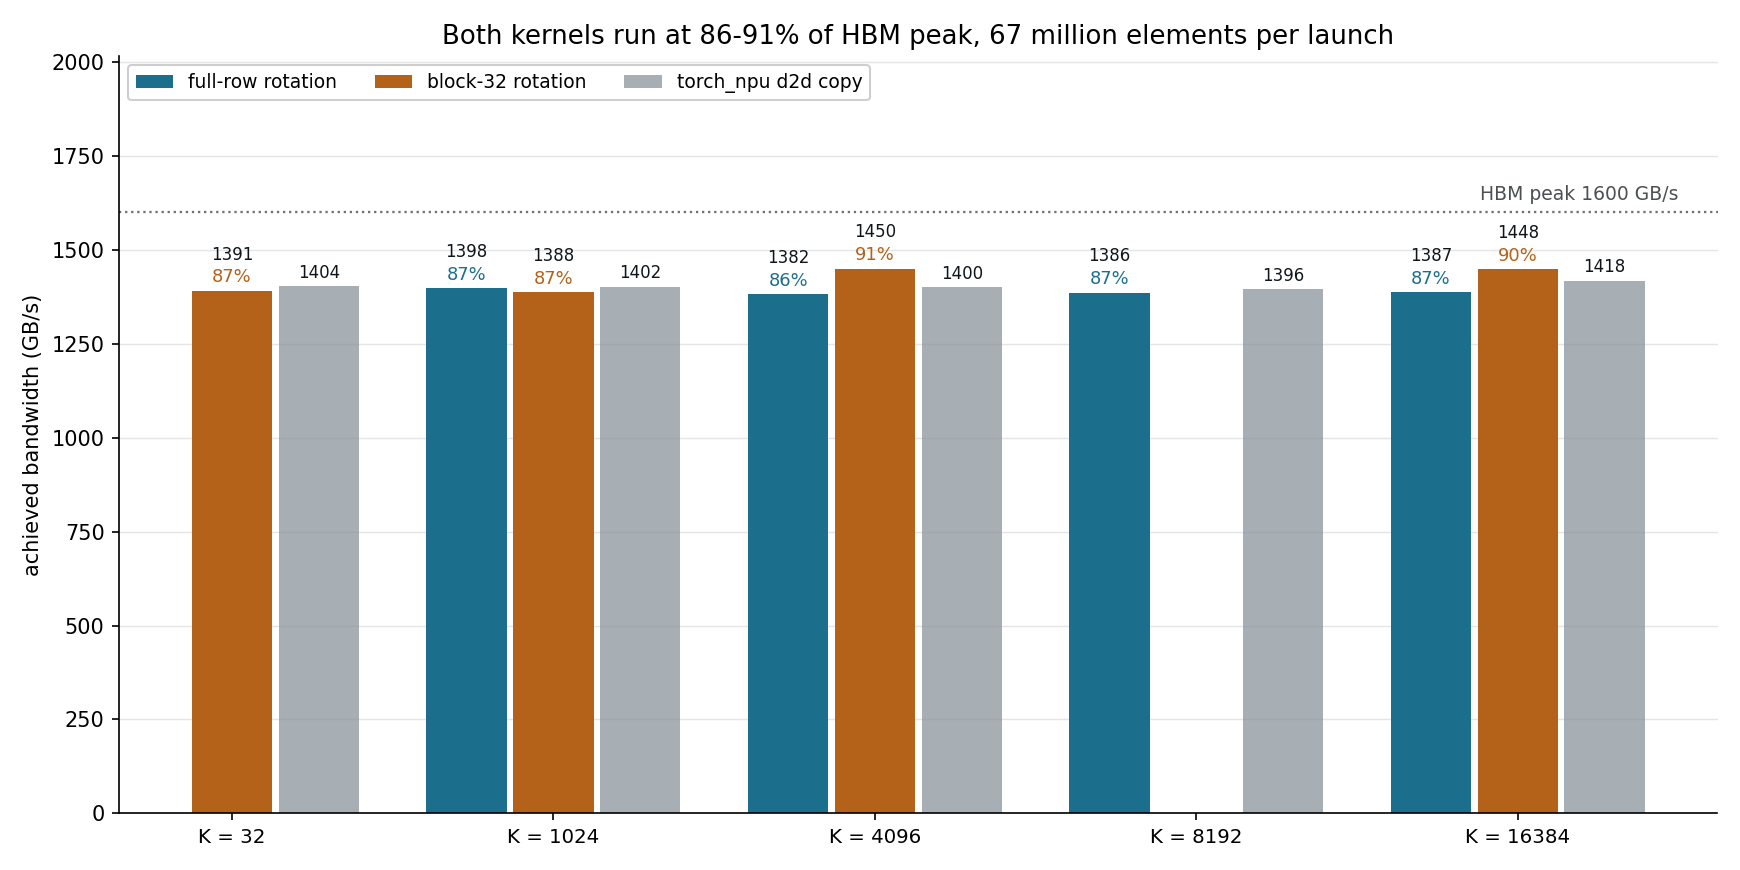
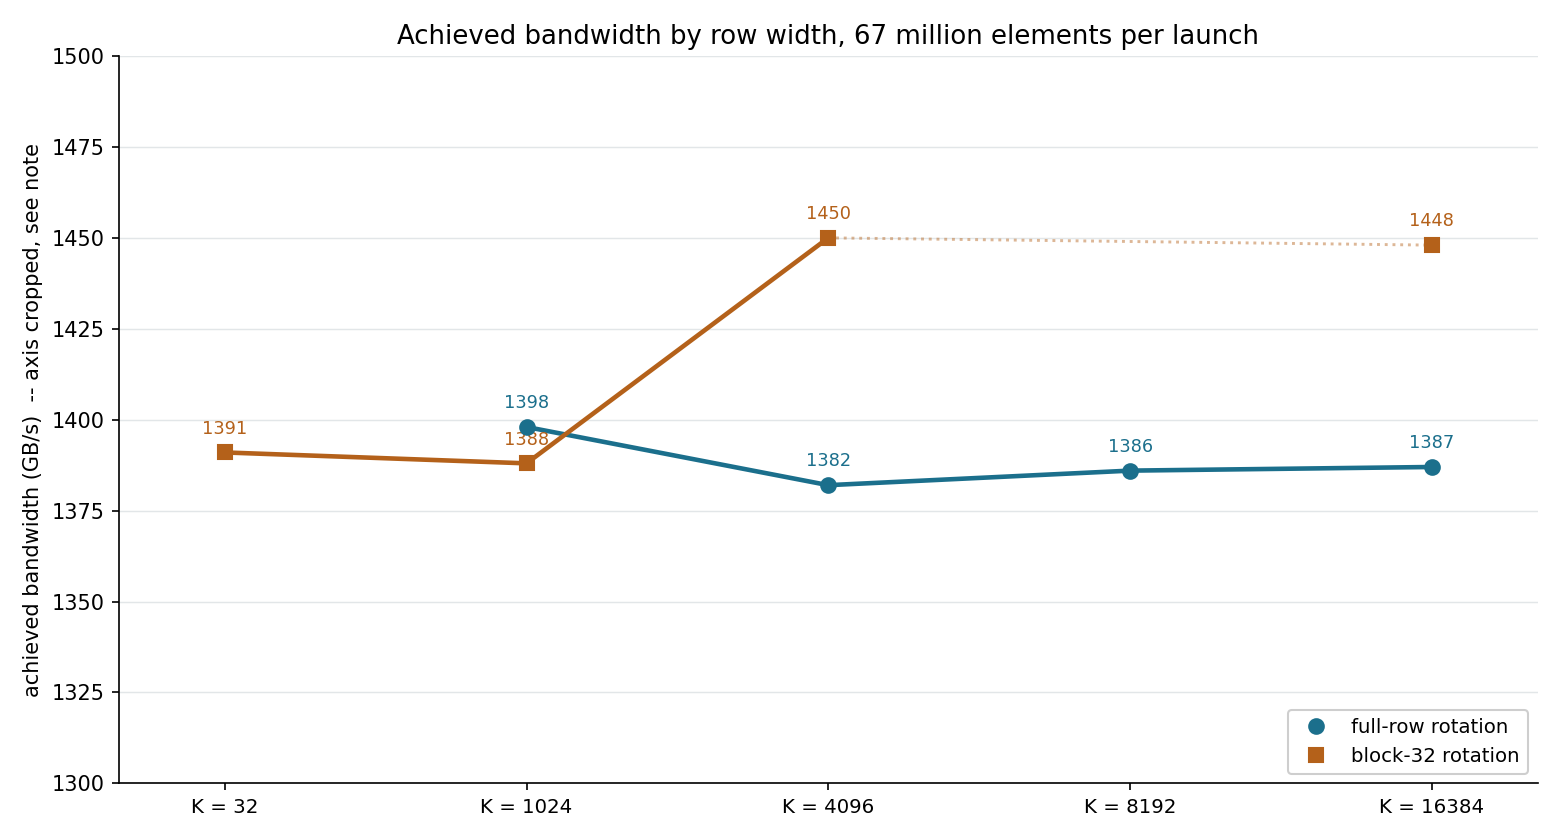
fused_hadamard_quant_a5: bandwidth as a line, kernels only
Three changes to the second figure: a line chart rather than bars, no
copy reference, and no HBM peak line. The copy belongs to the traffic
argument the other figure makes, and the part's true peak is not
something these runs establish, so drawing 1600 as a ceiling claimed
more than the data supports.

Removing the ceiling takes away the only reference, and every point
sits between 1382 and 1450 GB/s, so the y axis has to be cropped or the
chart is two flat lines. It runs 1300-1500: round and deliberately
loose, because block-32's step at K=4096 is 4.5% and a tight crop draws
that as a cliff. The axis label says it is cropped.

Markers are measurements. block-32 has no K=8192 point, so that span is
drawn faint and dotted rather than as a straight line through a width
where nothing was measured.

Unresolved, and the reason 8192 is still missing: a clean re-measurement
of block-32 today (worst spread 5.2%, copy reference 1393-1408 against
the stored 1392-1404) did not reproduce the stored numbers. K=32 and
K=1024 came back 5.0% high, K=16384 4.0% low, and the shape inverted --
stored rises at K>=4096, today's falls at 16384. So the step this figure
shows may be session drift rather than a width effect. A two-repeat
sweep of both kernels is queued to settle it; until it lands the figure
plots the stored session, which is the one the READMEs quote.

Claude-Session: https://claude.ai/code/session_01HZVm8471pTYSqnDhjM7k1g

diff --git a/fused_hadamard_quant_a5/plot_bandwidth_both_a5.py b/fused_hadamard_quant_a5/plot_bandwidth_both_a5.py
@@ -1,15 +1,20 @@
 #!/usr/bin/env python3
-"""Achieved bandwidth for both fused kernels, against the copy and HBM peak.
+"""Achieved bandwidth for both fused kernels, across row width.
 
-The companion to the fusion ladder. The ladder says fusing is worth 2.45-2.54x;
-this says why there is nothing much left after that. Every arm sits at 86-91%
-of the part's 1.6 TB/s HBM peak, so the kernels are not moving bytes faster
-than a vendor copy of the same data -- they are moving fewer of them, 2.53
-B/element against 4.00, and that is the whole of the time difference.
+The companion to the fusion ladder. The ladder says what fusing is worth; this
+says what the fused kernel then sustains, and that it does not fall off as the
+row grows: the transform is hidden under the DMA at every width, so the curve
+is flat rather than sloping.
 
-The copy is a reference for what moving the bytes costs, not a proven lower
-bound: it is a vendor kernel doing a simpler job. HBM peak is the closer thing
-to a real ceiling, which is why it is the line.
+NOTE ON THE Y AXIS. It runs 1300-1500 and does not start at zero. Every point
+sits between 1382 and 1450 GB/s, so a zero-based axis would draw two flat lines
+and show nothing. The limits are round and deliberately loose: block-32's step
+at K=4096 is 4.5%, and a tight crop draws that as a cliff. Read the gap as the
+few per cent it is, not as the height of the picture.
+
+No copy reference and no hardware ceiling here on purpose. The copy belongs to
+the traffic argument, which is the other figure's job, and the part's true peak
+bandwidth is not something these runs establish.
 """
 
 import argparse
@@ -29,10 +34,8 @@ HERE = Path(__file__).resolve().parent
 B32 = HERE.parent / "fused_hadamard_quant_b32_a5"
 FULL = "#1b6f8c"
 BLOCK = "#b4611a"
-COPY = "#8a949b"
 INK = "#0f1519"
 GRID = "#d7dcdf"
-HBM_PEAK = 1600.0  # GB/s on an Ascend950PR_9589
 
 
 def read(p):
@@ -51,57 +54,43 @@ def main():
     full = read(HERE / "copy_floor_full.csv")
     b32 = read(B32 / "copy_floor_b32.csv")
     widths = sorted(set(full) | set(b32))
-    xs = list(range(len(widths)))
+    pos = {k: i for i, k in enumerate(widths)}
 
-    fig, ax = plt.subplots(figsize=(11.6, 5.8))
-    w = 0.25
-    # three fixed slots per width: full-row, block-32, copy. The copy ran at
-    # every width, so the group is always anchored and the tick stays centred;
-    # a width one kernel has no instantiation for simply leaves its slot empty.
-    SLOT = {"full": -0.27, "b32": 0.0, "copy": 0.27}
-    lanes = [("full", full, FULL, "full-row rotation"),
-             ("b32", b32, BLOCK, "block-32 rotation")]
-    seen = set()
+    fig, ax = plt.subplots(figsize=(10.4, 5.6))
+    for src, colour, marker, name in [
+        (full, FULL, "o", "full-row rotation"),
+        (b32, BLOCK, "s", "block-32 rotation"),
+    ]:
+        ks = sorted(src)
+        xs = [pos[k] for k in ks]
+        ys = [float(src[k]["fused_gbs"]) for k in ks]
+        # A marker is a measurement. Where a kernel has no instantiation at a
+        # width the others cover, the span is drawn faint and dashed so the
+        # line cannot be read as a measured value there.
+        for i in range(len(xs) - 1):
+            gap = xs[i + 1] - xs[i] > 1
+            ax.plot(xs[i:i + 2], ys[i:i + 2], color=colour,
+                    lw=1.4 if gap else 2.2, ls=":" if gap else "-",
+                    alpha=0.45 if gap else 1.0, zorder=3)
+        ax.plot(xs, ys, color=colour, lw=0, marker=marker, ms=7,
+                label=name, zorder=4)
+        for x, y in zip(xs, ys):
+            ax.annotate(f"{y:.0f}", (x, y), textcoords="offset points",
+                        xytext=(0, 9), ha="center", fontsize=8.5, color=colour)
 
-    for x, k in zip(xs, widths):
-        for tag, src, colour, name in lanes:
-            if k not in src:
-                continue
-            v = float(src[k]["fused_gbs"])
-            ax.bar(x + SLOT[tag], v, w, color=colour, zorder=2,
-                   label=None if tag in seen else name)
-            seen.add(tag)
-            ax.annotate(f"{v:.0f}", (x + SLOT[tag], v), textcoords="offset points",
-                        xytext=(0, 15), ha="center", fontsize=8, color=INK)
-            ax.annotate(f"{100 * v / HBM_PEAK:.0f}%", (x + SLOT[tag], v),
-                        textcoords="offset points", xytext=(0, 4), ha="center",
-                        fontsize=8.6, color=colour, weight="medium")
-        # one reference copy per width, taken from whichever sweep ran it
-        cv = float((full if k in full else b32)[k]["copy_gbs"])
-        ax.bar(x + SLOT["copy"], cv, w, color=COPY, alpha=0.75, zorder=2,
-               label=None if "copy" in seen else "torch_npu d2d copy")
-        seen.add("copy")
-        ax.annotate(f"{cv:.0f}", (x + SLOT["copy"], cv), textcoords="offset points",
-                    xytext=(0, 4), ha="center", fontsize=8, color=INK)
-
-    ax.axhline(HBM_PEAK, color=INK, lw=1.1, ls=":", alpha=0.6, zorder=1)
-    ax.annotate(f"HBM peak {HBM_PEAK:.0f} GB/s", (len(widths) - 0.5, HBM_PEAK),
-                textcoords="offset points", xytext=(0, 6), ha="right",
-                fontsize=9, color=INK, alpha=0.75)
-
-    ax.set_xticks(xs)
+    # Round, generous limits rather than a tight fit around the data. A tight
+    # crop turns block-32's 4.5% step at K=4096 into a cliff; this keeps the
+    # step visible without drawing it as an order of magnitude.
+    ax.set_ylim(1300, 1500)
+    ax.set_xticks(list(pos.values()))
     ax.set_xticklabels([f"K = {k}" for k in widths], fontsize=9.5)
-    ax.set_ylabel("achieved bandwidth (GB/s)")
-    ax.set_ylim(0, HBM_PEAK * 1.26)
+    ax.set_xlim(-0.35, len(widths) - 0.65)
+    ax.set_ylabel("achieved bandwidth (GB/s)  -- axis cropped, see note")
     ax.set_title(
-        "Both kernels run at 86-91% of HBM peak, 67 million elements per launch",
+        "Achieved bandwidth by row width, 67 million elements per launch",
         fontsize=12.5,
     )
-    want = ["full-row rotation", "block-32 rotation", "torch_npu d2d copy"]
-    handles, labels = ax.get_legend_handles_labels()
-    by = dict(zip(labels, handles))
-    ax.legend([by[t] for t in want if t in by], [t for t in want if t in by],
-              fontsize=9, loc="upper left", framealpha=0.95, ncol=3)
+    ax.legend(fontsize=9.5, loc="lower right", framealpha=0.95)
     ax.grid(True, axis="y", color=GRID, lw=0.7, alpha=0.7, zorder=0)
     ax.set_axisbelow(True)
     ax.spines[["top", "right"]].set_visible(False)
